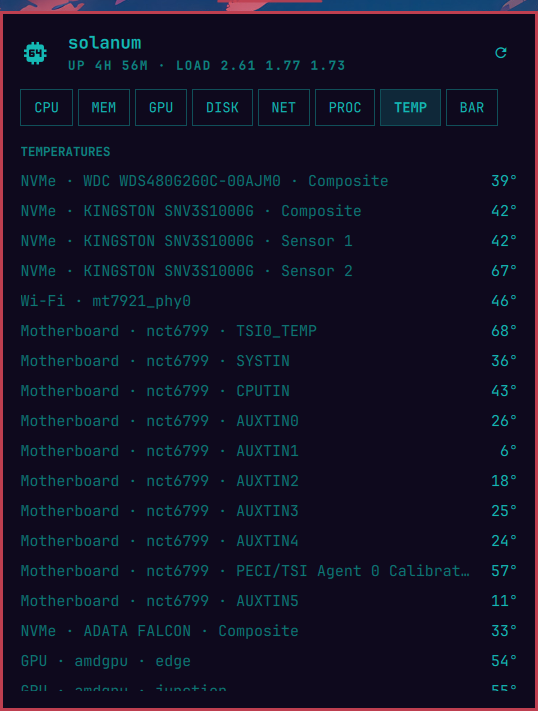
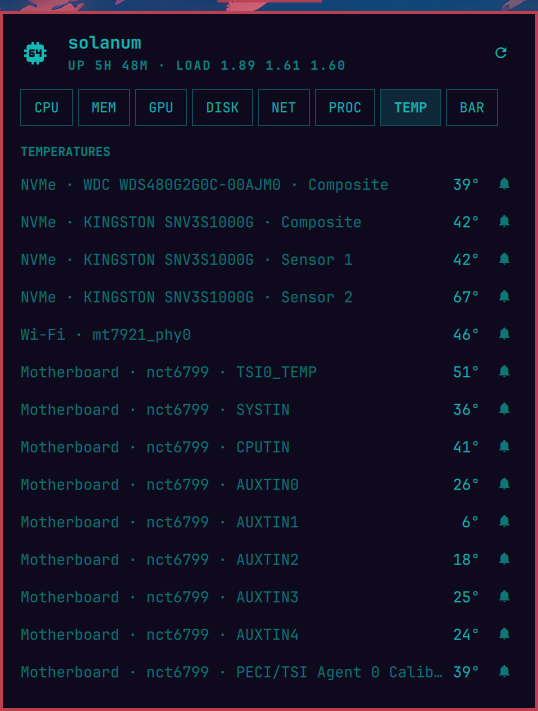
Per-sensor alert thresholds, set inline in the TEMP tab
Each sensor row gains a bell button opening a -/+/off stepper. A sensor
over its limit renders its row urgent and fires a critical notification
through the shared streak/cooldown machinery. Thresholds persist in
shell.json as a sensorThresholds map keyed by chip|device|label, stable
across reboots and hwmon renumbering.

diff --git a/BarWidget.qml b/BarWidget.qml
@@ -74,8 +74,18 @@ Panel {
     tab = tabs[index]
   }
 
-  onTabChanged: flick.contentY = 0
+  onTabChanged: {
+    flick.contentY = 0
+    editingSensor = ""
+  }
   onTabsChanged: if (tabs.indexOf(tab) === -1) tab = "CPU"
+
+  // Which TEMP-tab sensor row has its threshold editor expanded.
+  property string editingSensor: ""
+
+  function setSensorLimit(key, value) {
+    persistPluginSetting("sensorThresholds", Model.setSensorThreshold(setting("sensorThresholds", null), key, value))
+  }
 
   function persistPluginSetting(name, value) {
     if (!root.bar || !root.bar.shell || typeof root.bar.shell.updateEntryInline !== "function") return
@@ -714,11 +724,129 @@ Panel {
             Repeater {
               model: Service.temps
 
-              DetailRow {
+              Column {
+                id: sensorRow
                 required property var modelData
-                label: Model.tempName(modelData)
-                value: Model.fmtTemp(modelData.celsius)
+                readonly property string skey: Model.sensorKey(modelData)
+                readonly property real limit: Model.sensorThreshold(Service.sensorThresholds, modelData)
+                readonly property bool over: isFinite(limit) && modelData.celsius >= limit
+                readonly property bool editing: root.editingSensor === skey
+                width: parent.width
+                spacing: Style.space(4)
+
+                RowLayout {
+                  width: parent.width
+                  spacing: Style.space(8)
+
+                  Text {
+                    Layout.fillWidth: true
+                    text: Model.tempName(sensorRow.modelData)
+                    color: root.dim
+                    font.family: root.fontFamily
+                    font.pixelSize: Style.font.body
+                    elide: Text.ElideRight
+                  }
+
+                  Text {
+                    visible: isFinite(sensorRow.limit) && !sensorRow.editing
+                    text: "alert " + sensorRow.limit + "°"
+                    color: root.dim
+                    font.family: root.fontFamily
+                    font.pixelSize: Style.font.caption
+                  }
+
+                  Text {
+                    text: Model.fmtTemp(sensorRow.modelData.celsius)
+                    color: sensorRow.over ? root.urgent : root.foreground
+                    font.family: root.fontFamily
+                    font.pixelSize: Style.font.body
+                  }
+
+                  PanelActionButton {
+                    iconText: "\u{f009a}"
+                    tooltipText: isFinite(sensorRow.limit) ? "Edit alert threshold" : "Set alert threshold"
+                    foreground: isFinite(sensorRow.limit) ? Color.accent : root.dim
+                    fontFamily: root.fontFamily
+                    fontSize: Style.font.bodySmall
+                    size: Style.space(22)
+                    onClicked: {
+                      if (sensorRow.editing) {
+                        root.editingSensor = ""
+                      } else {
+                        if (!isFinite(sensorRow.limit)) {
+                          root.setSensorLimit(sensorRow.skey, Model.suggestedSensorThreshold(sensorRow.modelData.celsius))
+                        }
+                        root.editingSensor = sensorRow.skey
+                      }
+                    }
+                  }
+                }
+
+                RowLayout {
+                  visible: sensorRow.editing
+                  anchors.right: parent.right
+                  spacing: Style.space(6)
+
+                  Text {
+                    text: "Alert at"
+                    color: root.dim
+                    font.family: root.fontFamily
+                    font.pixelSize: Style.font.bodySmall
+                  }
+
+                  PanelActionButton {
+                    iconText: "\u{f0374}"
+                    tooltipText: "-5°"
+                    enabled: sensorRow.limit > Model.SENSOR_THRESHOLD_MIN
+                    foreground: root.foreground
+                    fontFamily: root.fontFamily
+                    fontSize: Style.font.bodySmall
+                    size: Style.space(22)
+                    onClicked: root.setSensorLimit(sensorRow.skey, sensorRow.limit - 5)
+                  }
+
+                  Text {
+                    text: sensorRow.limit + "°"
+                    color: root.foreground
+                    font.family: root.fontFamily
+                    font.pixelSize: Style.font.body
+                  }
+
+                  PanelActionButton {
+                    iconText: "\u{f0415}"
+                    tooltipText: "+5°"
+                    enabled: sensorRow.limit < Model.SENSOR_THRESHOLD_MAX
+                    foreground: root.foreground
+                    fontFamily: root.fontFamily
+                    fontSize: Style.font.bodySmall
+                    size: Style.space(22)
+                    onClicked: root.setSensorLimit(sensorRow.skey, sensorRow.limit + 5)
+                  }
+
+                  PanelActionButton {
+                    iconText: "\u{f009b}"
+                    tooltipText: "Remove threshold"
+                    hoverColor: root.urgent
+                    foreground: root.foreground
+                    fontFamily: root.fontFamily
+                    fontSize: Style.font.bodySmall
+                    size: Style.space(22)
+                    onClicked: {
+                      root.setSensorLimit(sensorRow.skey, NaN)
+                      root.editingSensor = ""
+                    }
+                  }
+                }
               }
+            }
+
+            Text {
+              width: parent.width
+              text: "\u{f009a} sets a per-sensor alert threshold — the row turns urgent and a notification fires when it stays above the limit."
+              color: root.dim
+              font.family: root.fontFamily
+              font.pixelSize: Style.font.caption
+              wrapMode: Text.WordWrap
             }
 
             PanelSectionHeader {

diff --git a/Model.js b/Model.js
@@ -637,6 +637,55 @@ function isDesktopChassis(type) {
   return [3, 4, 5, 6, 7].indexOf(Number(type)) !== -1
 }
 
+// ---- Per-sensor thresholds -----------------------------------------------
+// Optional user-set alert thresholds for individual temperature sensors,
+// persisted as a { key: celsius } map in shell.json. Keyed by
+// chip|device|label — stable across reboots, unlike hwmon numbering.
+// Independent of (and in addition to) the CPU/GPU/drive defaults.
+
+function sensorKey(temp) {
+  return temp.chip + "|" + (temp.device || "") + "|" + (temp.label || "")
+}
+
+var SENSOR_THRESHOLD_MIN = 30
+var SENSOR_THRESHOLD_MAX = 120
+
+function normalizeSensorThresholds(value) {
+  var map = {}
+  if (value && typeof value === "object") {
+    for (var key in value) {
+      var n = Number(value[key])
+      if (isFinite(n) && n >= SENSOR_THRESHOLD_MIN && n <= SENSOR_THRESHOLD_MAX) map[key] = n
+    }
+  }
+  return map
+}
+
+// Returns a new map with `key` set to `celsius`, or removed when celsius
+// is not a finite number (the UI's "off").
+function setSensorThreshold(current, key, celsius) {
+  var map = normalizeSensorThresholds(current)
+  var n = Number(celsius)
+  if (isFinite(n)) {
+    map[key] = Math.max(SENSOR_THRESHOLD_MIN, Math.min(SENSOR_THRESHOLD_MAX, Math.round(n)))
+  } else {
+    delete map[key]
+  }
+  return map
+}
+
+function sensorThreshold(map, temp) {
+  var key = sensorKey(temp)
+  return map && key in map ? map[key] : NaN
+}
+
+// A sensible starting threshold when the user first enables one: a bit of
+// headroom above the current reading, on a 5° grid.
+function suggestedSensorThreshold(celsius) {
+  var base = isFinite(celsius) ? celsius + 10 : 70
+  return Math.max(SENSOR_THRESHOLD_MIN, Math.min(SENSOR_THRESHOLD_MAX, Math.ceil(base / 5) * 5))
+}
+
 // The discrete GPU when there is one: the card with the most VRAM.
 function primaryGpu(gpus) {
   var best = null
@@ -900,6 +949,13 @@ if (typeof module !== "undefined") {
     hottestDrive: hottestDrive,
     hasMotherboardSensors: hasMotherboardSensors,
     isDesktopChassis: isDesktopChassis,
+    sensorKey: sensorKey,
+    normalizeSensorThresholds: normalizeSensorThresholds,
+    setSensorThreshold: setSensorThreshold,
+    sensorThreshold: sensorThreshold,
+    suggestedSensorThreshold: suggestedSensorThreshold,
+    SENSOR_THRESHOLD_MIN: SENSOR_THRESHOLD_MIN,
+    SENSOR_THRESHOLD_MAX: SENSOR_THRESHOLD_MAX,
     cpuUsage: cpuUsage,
     netRates: netRates,
     ioRates: ioRates,

diff --git a/Service.qml b/Service.qml
@@ -214,22 +214,37 @@ Singleton {
   property var _alertStreak: ({})
   property var _alertNotifiedAt: ({})
 
+  // Per-sensor thresholds the user set in the TEMP tab.
+  readonly property var sensorThresholds: Model.normalizeSensorThresholds(settings ? settings.sensorThresholds : null)
+
+  function _notify(streakKey, urgent, now, critical, message) {
+    var streak = urgent ? (_alertStreak[streakKey] || 0) + 1 : 0
+    _alertStreak[streakKey] = streak
+    if (streak !== alertHoldTicks) return
+    if (now - (_alertNotifiedAt[streakKey] || 0) < alertCooldownMs) return
+    _alertNotifiedAt[streakKey] = now
+    Quickshell.execDetached([
+      "notify-send", "-a", "Argus", "-u", critical ? "critical" : "normal",
+      "Argus", message
+    ])
+  }
+
   function checkAlerts(now) {
     if (!alertsEnabled) return
     var th = Model.thresholdsFrom(settings)
     var data = barData
     for (var i = 0; i < Model.ALERT_KEYS.length; i++) {
       var key = Model.ALERT_KEYS[i]
-      var streak = Model.metricUrgent(key, data, th) ? (_alertStreak[key] || 0) + 1 : 0
-      _alertStreak[key] = streak
-      if (streak !== alertHoldTicks) continue
-      if (now - (_alertNotifiedAt[key] || 0) < alertCooldownMs) continue
-      _alertNotifiedAt[key] = now
       var critical = key === "cputemp" || key === "gputemp" || key === "drivetemp" || key === "bat"
-      Quickshell.execDetached([
-        "notify-send", "-a", "Argus", "-u", critical ? "critical" : "normal",
-        "Argus", Model.alertText(key, data, th)
-      ])
+      _notify(key, Model.metricUrgent(key, data, th), now, critical, Model.alertText(key, data, th))
+    }
+    // User-set per-sensor thresholds, each with its own streak/cooldown.
+    for (var t = 0; t < temps.length; t++) {
+      var temp = temps[t]
+      var limit = Model.sensorThreshold(sensorThresholds, temp)
+      if (!isFinite(limit)) continue
+      _notify("sensor:" + Model.sensorKey(temp), temp.celsius >= limit, now, true,
+        Model.tempName(temp) + " at " + Model.fmtTemp(temp.celsius) + " (threshold " + limit + "°)")
     }
   }
 

diff --git a/tests/model.test.js b/tests/model.test.js
@@ -309,6 +309,22 @@ assert.strictEqual(Model.hasMotherboardSensors([], [{ chip: "it8620" }]), true)
 assert.ok(merged.kernel.length > 0, "kernel version parsed")
 assert.ok(merged.chassisType > 0, "chassis type parsed")
 
+// Per-sensor thresholds: stable keys, clamped values, off = removed.
+const sensor = { chip: "nvme", label: "Composite", celsius: 62, device: "ADATA FALCON" }
+const skey = Model.sensorKey(sensor)
+assert.strictEqual(skey, "nvme|ADATA FALCON|Composite")
+let sensorMap = Model.setSensorThreshold(null, skey, 70)
+assert.strictEqual(Model.sensorThreshold(sensorMap, sensor), 70)
+sensorMap = Model.setSensorThreshold(sensorMap, skey, 200)
+assert.strictEqual(sensorMap[skey], Model.SENSOR_THRESHOLD_MAX, "clamped to max")
+sensorMap = Model.setSensorThreshold(sensorMap, skey, NaN)
+assert.ok(!(skey in sensorMap), "NaN removes the threshold")
+assert.strictEqual(Model.sensorThreshold(sensorMap, sensor), NaN === NaN ? NaN : NaN)
+assert.ok(Number.isNaN(Model.sensorThreshold(sensorMap, sensor)))
+assert.deepStrictEqual(Model.normalizeSensorThresholds({ good: 75, low: 5, junk: "x" }), { good: 75 }, "invalid entries dropped")
+assert.strictEqual(Model.suggestedSensorThreshold(62), 75, "current+10 on a 5° grid")
+assert.strictEqual(Model.suggestedSensorThreshold(NaN), 70)
+
 // Sparkline history is fixed-length and NaN-safe.
 let hist = []
 for (let i = 0; i < Model.HISTORY_LEN + 10; i++) hist = Model.pushHistory(hist, i)

diff --git a/README.md b/README.md
@@ -23,7 +23,7 @@ order in the panel's **BAR** tab; the choice persists to
 - **DISK** — every real filesystem with its physical disk model (LUKS/LVM resolved via lsblk), live read/write rates per physical disk, PSI I/O pressure
 - **NET** — total and per-interface download/upload rates, with download/upload sparklines; virtual interfaces (VPN tunnels, bridges, veth) are listed but kept out of the totals so VPN traffic isn't counted twice
 - **PROC** — top processes by CPU and by memory
-- **TEMP** — every hwmon sensor with friendly names (CPU, GPU, NVMe with drive model, RAM, Wi-Fi, …), plus fan speeds
+- **TEMP** — every hwmon sensor with friendly names (CPU, GPU, NVMe with drive model, RAM, Wi-Fi, …), plus fan speeds; each sensor row can carry its own alert threshold, set inline
 - **BAT** — per-battery charge, status, power draw, health, and time estimate (tab appears only when a system battery exists)
 - **BAR** — toggles and reorder arrows for which metrics the bar shows
 
@@ -85,6 +85,13 @@ fallback for the CPU/GPU thresholds. Load average turns urgent when the
 1-minute load reaches the thread count; battery turns urgent at ≤15% while
 discharging. Drive temperature is alert-only (it has no bar segment) and
 watches the hottest NVMe/SATA sensor.
+
+On top of those defaults, **any individual sensor** can carry its own
+alert threshold, set from the TEMP tab: the  button on a sensor row opens
+a stepper (−/+/off). A sensor over its limit renders its row in the urgent
+color and fires a notification with the usual 3-tick hold and cooldown.
+These persist in shell.json as a `sensorThresholds` map keyed by
+`chip|device|label`, so they survive reboots and hwmon renumbering.
 
 ## Alerts
 

diff --git a/CHANGELOG.md b/CHANGELOG.md
@@ -4,6 +4,17 @@ All notable changes to Argus are documented here. The format follows
 [Keep a Changelog](https://keepachangelog.com/en/1.1.0/), and versions
 follow [Semantic Versioning](https://semver.org/).
 
+## [0.6.0] — 2026-08-19
+
+### Added
+- Per-sensor alert thresholds, set from the TEMP tab UI: each sensor row
+  has a  button opening an inline −/+/off stepper. A sensor over its
+  limit renders urgent and fires a critical notification (same 3-tick
+  hold and 5-minute cooldown as the built-in alerts). Persisted in
+  shell.json as a `sensorThresholds` map keyed by `chip|device|label`,
+  stable across reboots and hwmon renumbering. Independent of — and in
+  addition to — the CPU/GPU/drive component thresholds.
+
 ## [0.5.0] — 2026-08-19
 
 ### Added
